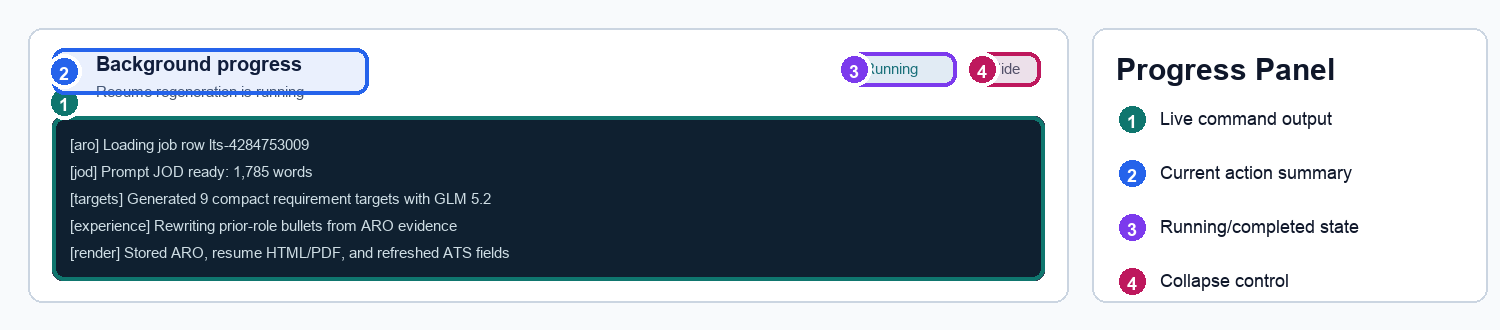
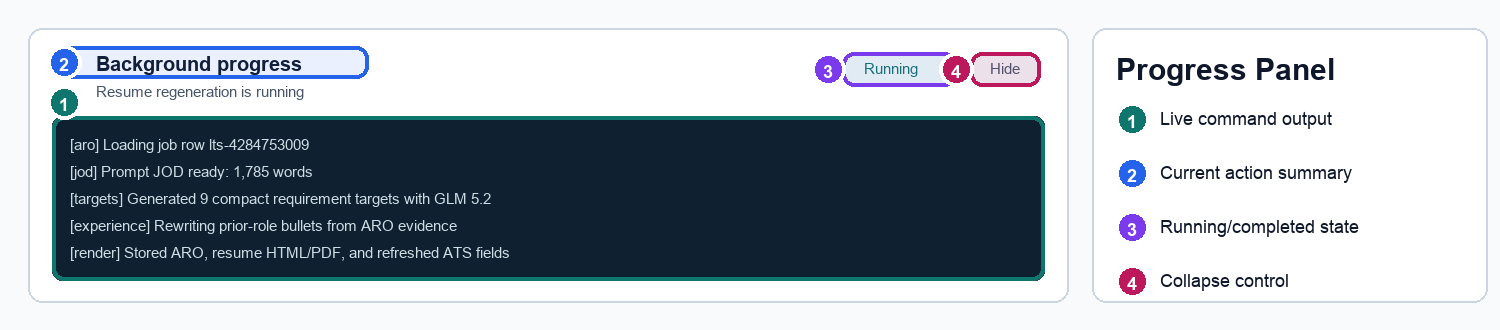
Tweak README progress callout placement

Changed region(s): [[0.0307, 0.1212, 0.2453, 0.303], [0.6133, 0.1515, 0.6747, 0.2727], [0.5213, 0.1515, 0.5827, 0.2727]]

diff --git a/scripts/annotate_readme_assets.py b/scripts/annotate_readme_assets.py
@@ -244,7 +244,8 @@ def draw_progress_panel(target: str) -> None:
     callouts = [
         Callout("Live command output", console),
         Callout(
-            "Current action summary", (panel[0] + 24, panel[1] + 20, panel[0] + 340, panel[1] + 66)
+            "Current action summary",
+            (panel[0] + 24, panel[1] + 18, panel[0] + 340, panel[1] + 50),
         ),
         Callout(
             "Running/completed state",
@@ -263,7 +264,8 @@ def draw_progress_panel(target: str) -> None:
         badge_y = y1 - 14
         if y1 < 76:
             badge_y = y1 + (y2 - y1) // 2
-        draw_badge(overlay_draw, (x1 + 12, max(18, badge_y)), index)
+        badge_x = x1 - 14 if index in {3, 4} else x1 + 12
+        draw_badge(overlay_draw, (badge_x, max(18, badge_y)), index)
     image = Image.alpha_composite(image, overlay)
     draw = ImageDraw.Draw(image)
 

diff --git a/CHANGELOG.md b/CHANGELOG.md
@@ -23,6 +23,8 @@
   numbered color palette across screenshots and workflow diagrams.
 * Add a companion README JOD editor screenshot showing the same page scrolled to
   the removed-text and line-level diff panels.
+* Tweak README progress-panel callout placement so labels and status controls
+  remain unobstructed.
 * Fix generic Greenhouse URL imports so company names can be inferred from page
   titles instead of falling back to the job-board hostname.
 * Bump the package version to `3.0.0` because the default resume-generation
